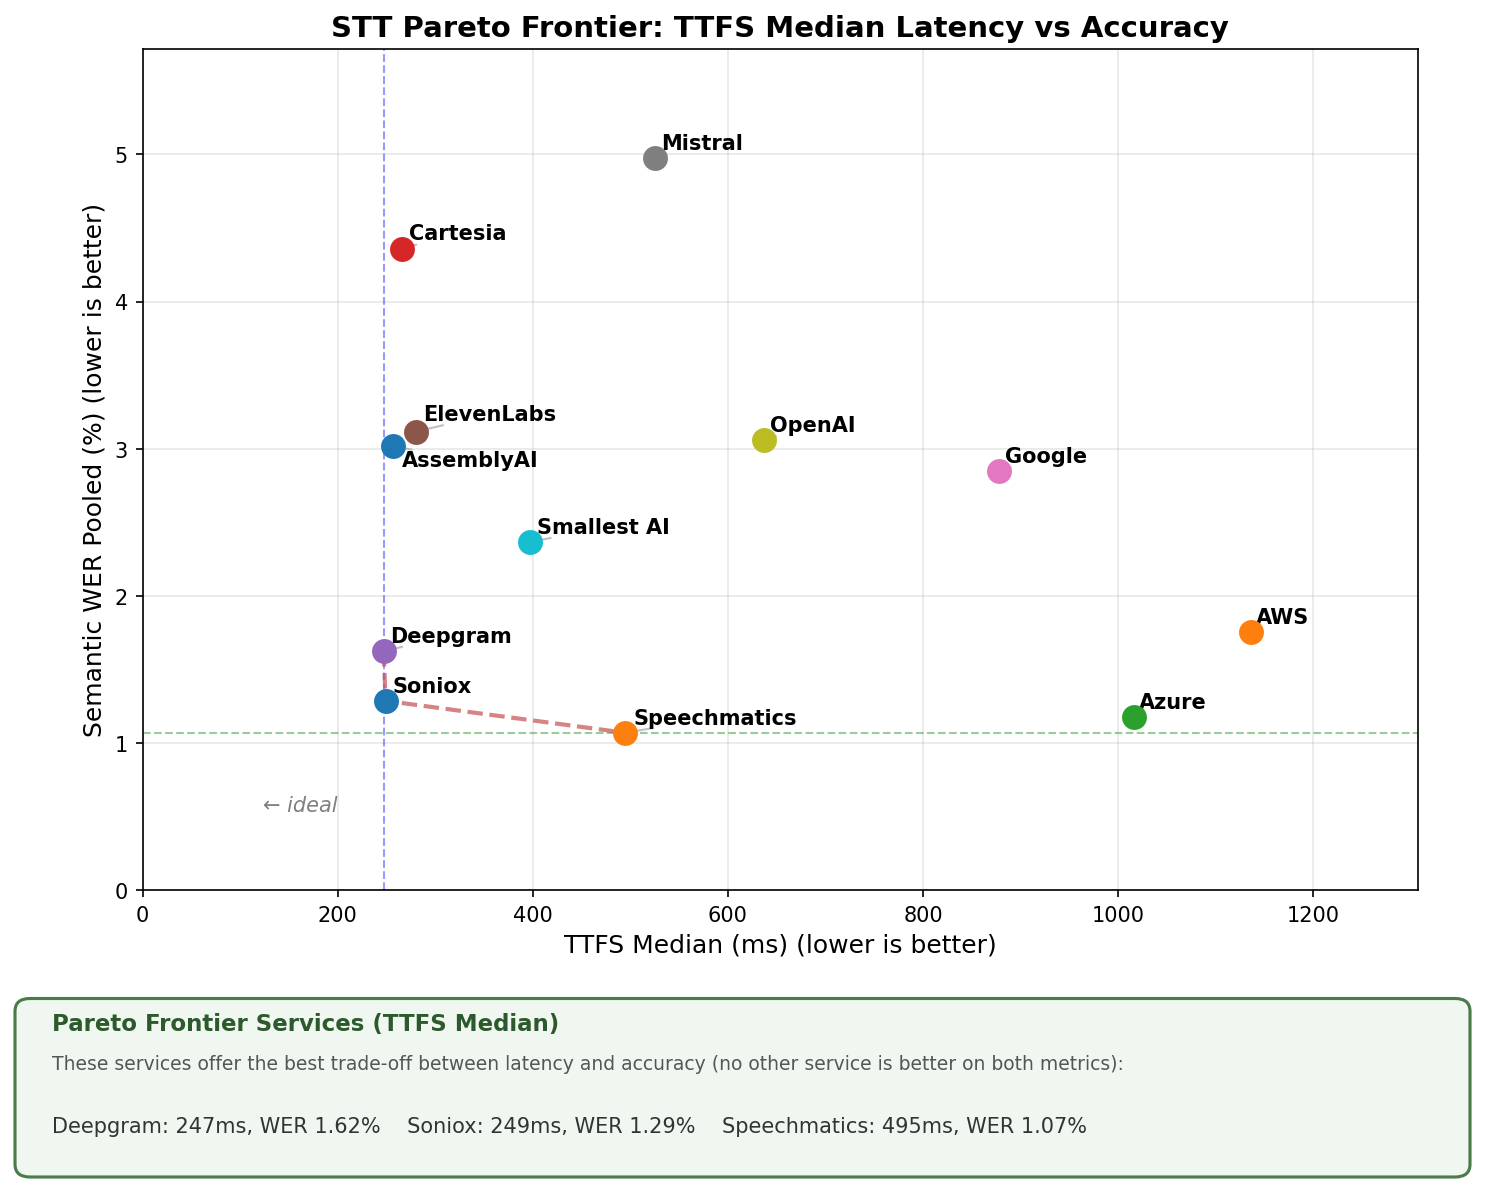
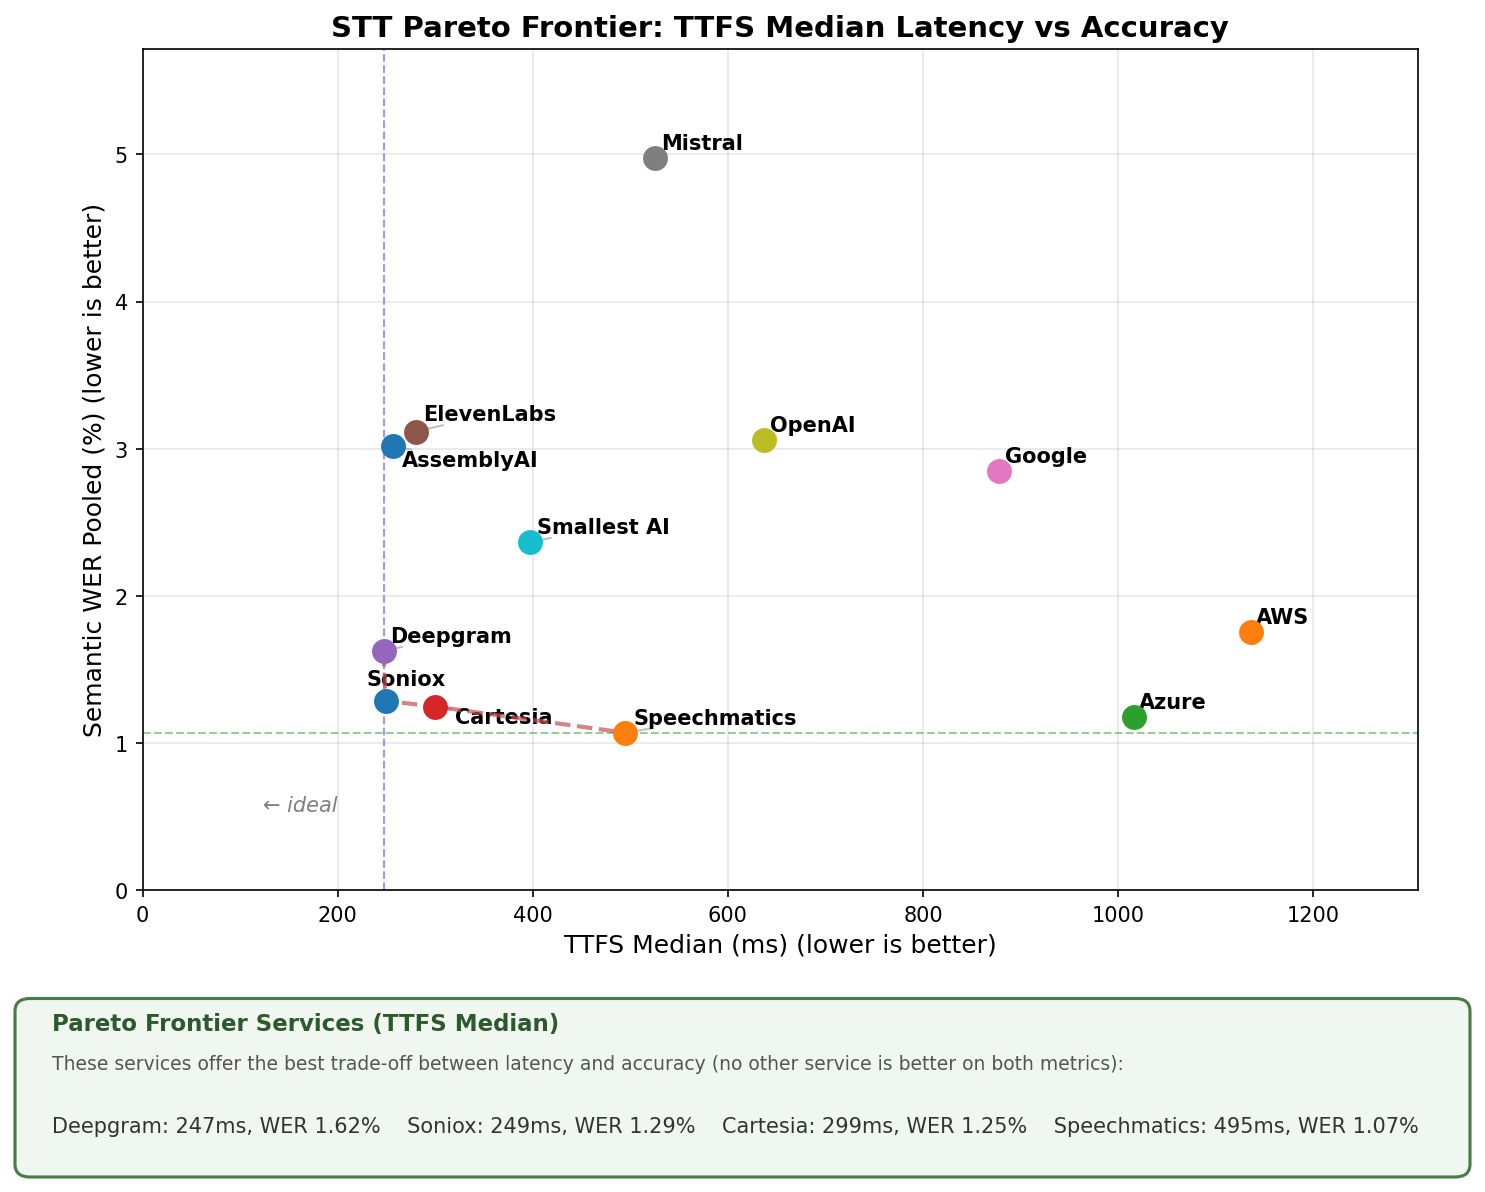
Update settings, add Cartesia ink-2 data

Changed region(s): [[0.4956, 0.9312, 0.9603, 0.9622], [0.2478, 0.5587, 0.3717, 0.6208], [0.2478, 0.1862, 0.3407, 0.2173]]

diff --git a/src/stt_benchmark/services.py b/src/stt_benchmark/services.py
@@ -79,12 +79,11 @@ class ServiceDefinition:
 
 
 def create_assemblyai() -> FrameProcessor:
-    from pipecat.services.assemblyai.models import AssemblyAIConnectionParams
     from pipecat.services.assemblyai.stt import AssemblyAISTTService
 
     return AssemblyAISTTService(
         api_key=_get_env("ASSEMBLYAI_API_KEY"),
-        connection_params=AssemblyAIConnectionParams(
+        settings=AssemblyAISTTService.Settings(
             end_of_turn_confidence_threshold=1.0,
             max_turn_silence=2000,
         ),
@@ -116,17 +115,31 @@ def create_cartesia() -> FrameProcessor:
 
     return CartesiaSTTService(
         api_key=_get_env("CARTESIA_API_KEY"),
-        model="ink-whisper",
+        settings=CartesiaSTTService.Settings(
+            model="ink-whisper",
+            language=Language.EN,
+        ),
+    )
+
+
+def create_cartesia_ink2() -> FrameProcessor:
+    from pipecat.services.cartesia.stt import CartesiaSTTService
+
+    return CartesiaSTTService(
+        api_key=_get_env("CARTESIA_API_KEY"),
+        settings=CartesiaSTTService.Settings(
+            model="ink-2",
+            language=Language.EN,
+        ),
     )
 
 
 def create_deepgram() -> FrameProcessor:
-    from deepgram import LiveOptions
     from pipecat.services.deepgram.stt import DeepgramSTTService
 
     return DeepgramSTTService(
         api_key=_get_env("DEEPGRAM_API_KEY"),
-        live_options=LiveOptions(
+        settings=DeepgramSTTService.Settings(
             model="nova-3-general",
             smart_format=False,
             profanity_filter=False,
@@ -140,8 +153,8 @@ def create_elevenlabs() -> FrameProcessor:
 
     return ElevenLabsRealtimeSTTService(
         api_key=_get_env("ELEVENLABS_API_KEY"),
-        model="scribe_v2_realtime",
-        params=ElevenLabsRealtimeSTTService.InputParams(
+        settings=ElevenLabsRealtimeSTTService.Settings(
+            model="scribe_v2_realtime",
             language=Language.EN,
         ),
     )
@@ -153,8 +166,8 @@ def create_elevenlabs_http(aiohttp_session: "aiohttp.ClientSession") -> FramePro
     return ElevenLabsSTTService(
         aiohttp_session=aiohttp_session,
         api_key=_get_env("ELEVENLABS_API_KEY"),
-        model="scribe_v2",
-        params=ElevenLabsSTTService.InputParams(
+        settings=ElevenLabsSTTService.Settings(
+            model="scribe_v2",
             language=Language.EN,
         ),
     )
@@ -165,7 +178,7 @@ def create_fal() -> FrameProcessor:
 
     return FalSTTService(
         api_key=_get_env("FAL_KEY"),
-        params=FalSTTService.InputParams(
+        settings=FalSTTService.Settings(
             language=Language.EN,
         ),
     )
@@ -173,7 +186,6 @@ def create_fal() -> FrameProcessor:
 
 def create_gladia() -> FrameProcessor:
     from pipecat.services.gladia.config import (
-        GladiaInputParams,
         LanguageConfig,
         PreProcessingConfig,
     )
@@ -182,8 +194,8 @@ def create_gladia() -> FrameProcessor:
     return GladiaSTTService(
         api_key=_get_env("GLADIA_API_KEY"),
         region=os.getenv("GLADIA_REGION", "us-west"),
-        model="solaria-1",
-        params=GladiaInputParams(
+        settings=GladiaSTTService.Settings(
+            model="solaria-1",
             language_config=LanguageConfig(
                 languages=[Language.EN],
             ),
@@ -201,7 +213,7 @@ def create_google() -> FrameProcessor:
     return GoogleSTTService(
         credentials_path=_get_env("GOOGLE_APPLICATION_CREDENTIALS"),
         location=os.getenv("GOOGLE_LOCATION", "us-central1"),
-        params=GoogleSTTService.InputParams(
+        settings=GoogleSTTService.Settings(
             languages=Language.EN_US,
             model="latest_long",
         ),
@@ -213,10 +225,7 @@ def create_gradium() -> FrameProcessor:
 
     return GradiumSTTService(
         api_key=_get_env("GRADIUM_API_KEY"),
-        api_endpoint_base_url=os.getenv(
-            "GRADIUM_BASE_URL", "wss://us.api.gradium.ai/api/speech/asr"
-        ),
-        params=GradiumSTTService.InputParams(
+        settings=GradiumSTTService.Settings(
             language=Language.EN,
         ),
     )
@@ -227,8 +236,10 @@ def create_groq() -> FrameProcessor:
 
     return GroqSTTService(
         api_key=_get_env("GROQ_API_KEY"),
-        model="whisper-large-v3-turbo",
-        language=Language.EN,
+        settings=GroqSTTService.Settings(
+            model="whisper-large-v3-turbo",
+            language=Language.EN,
+        ),
     )
 
 
@@ -237,8 +248,10 @@ def create_mistral() -> FrameProcessor:
 
     return MistralSTTService(
         api_key=_get_env("MISTRAL_API_KEY"),
-        model="voxtral-mini-transcribe-realtime-2602",
-        language=Language.EN,
+        settings=MistralSTTService.Settings(
+            model="voxtral-mini-transcribe-realtime-2602",
+            language=Language.EN,
+        ),
     )
 
 
@@ -247,7 +260,7 @@ def create_nvidia() -> FrameProcessor:
 
     return NvidiaSTTService(
         api_key=_get_env("NVIDIA_API_KEY"),
-        params=NvidiaSTTService.InputParams(
+        settings=NvidiaSTTService.Settings(
             language=Language.EN_US,
         ),
     )
@@ -275,8 +288,10 @@ def create_openai() -> FrameProcessor:
 
     return OpenAISTTService(
         api_key=_get_env("OPENAI_API_KEY"),
-        model="gpt-4o-mini-transcribe",
-        language=Language.EN,
+        settings=OpenAISTTService.Settings(
+            model="gpt-4o-mini-transcribe",
+            language=Language.EN,
+        ),
     )
 
 
@@ -285,8 +300,10 @@ def create_openai_realtime() -> FrameProcessor:
 
     return OpenAIRealtimeSTTService(
         api_key=_get_env("OPENAI_API_KEY"),
-        model="gpt-4o-transcribe",
-        language=Language.EN,
+        settings=OpenAIRealtimeSTTService.Settings(
+            model="gpt-4o-transcribe",
+            language=Language.EN,
+        ),
     )
 
 
@@ -295,7 +312,9 @@ def create_sarvam() -> FrameProcessor:
 
     return SarvamSTTService(
         api_key=_get_env("SARVAM_API_KEY"),
-        model="saarika:v2.5",
+        settings=SarvamSTTService.Settings(
+            model="saarika:v2.5",
+        ),
     )
 
 
@@ -312,11 +331,11 @@ def create_smallest() -> FrameProcessor:
 
 
 def create_soniox() -> FrameProcessor:
-    from pipecat.services.soniox.stt import SonioxInputParams, SonioxSTTService
+    from pipecat.services.soniox.stt import SonioxSTTService
 
     return SonioxSTTService(
         api_key=_get_env("SONIOX_API_KEY"),
-        params=SonioxInputParams(
+        settings=SonioxSTTService.Settings(
             model="stt-rt-v4",
             language_hints=[Language.EN],
             language_hints_strict=True,
@@ -331,7 +350,7 @@ def create_speechmatics() -> FrameProcessor:
     return SpeechmaticsSTTService(
         api_key=_get_env("SPEECHMATICS_API_KEY"),
         base_url=os.getenv("SPEECHMATICS_RT_URL", "wss://us.rt.speechmatics.com/v2"),
-        params=SpeechmaticsSTTService.InputParams(
+        settings=SpeechmaticsSTTService.Settings(
             language=Language.EN,
             turn_detection_mode=TurnDetectionMode.EXTERNAL,
         ),
@@ -342,8 +361,10 @@ def create_whisper() -> FrameProcessor:
     from pipecat.services.whisper.stt import Model, WhisperSTTService
 
     return WhisperSTTService(
-        model=Model.DISTIL_MEDIUM_EN,
-        language=Language.EN,
+        settings=WhisperSTTService.Settings(
+            model=Model.DISTIL_MEDIUM_EN,
+            language=Language.EN,
+        ),
     )
 
 
@@ -352,7 +373,9 @@ def create_xai() -> FrameProcessor:
 
     return XAISTTService(
         api_key=_get_env("XAI_API_KEY"),
-        language=Language.EN,
+        settings=XAISTTService.Settings(
+            language=Language.EN,
+        ),
     )
 
 
@@ -378,6 +401,10 @@ STT_SERVICES: dict[str, ServiceDefinition] = {
     ),
     "cartesia": ServiceDefinition(
         factory=create_cartesia,
+        required_env_vars=["CARTESIA_API_KEY"],
+    ),
+    "cartesia_ink2": ServiceDefinition(
+        factory=create_cartesia_ink2,
         required_env_vars=["CARTESIA_API_KEY"],
     ),
     "deepgram": ServiceDefinition(

diff --git a/src/stt_benchmark/models.py b/src/stt_benchmark/models.py
@@ -18,6 +18,7 @@ class ServiceName(str, Enum):
     AWS = "aws"
     AZURE = "azure"
     CARTESIA = "cartesia"
+    CARTESIA_INK2 = "cartesia_ink2"
     DEEPGRAM = "deepgram"
     # DEEPGRAM_FLUX = "deepgram_flux"
     ELEVENLABS = "elevenlabs"

diff --git a/README.md b/README.md
@@ -11,7 +11,7 @@ Benchmark results on 1000 samples from the `pipecat-ai/smart-turn-data-v3.1-trai
 | AssemblyAI | 99.8% | 66.8% | 3.49% | 3.02% | 256ms | 362ms | 417ms |
 | AWS | 100.0% | 77.4% | 1.68% | 1.75% | 1136ms | 1527ms | 1897ms |
 | Azure | 100.0% | 82.9% | 1.21% | 1.18% | 1016ms | 1345ms | 1791ms |
-| Cartesia | 99.9% | 60.5% | 3.92% | 4.36% | 266ms | 364ms | 898ms |
+| Cartesia | 100.0% | 84.2% | 1.47% | 1.25% | 299ms | 328ms | 1584ms |
 | Deepgram | 99.8% | 76.5% | 1.71% | 1.62% | 247ms | 298ms | 326ms |
 | Elevenlabs | 99.7% | 81.3% | 3.16% | 3.12% | 281ms | 348ms | 407ms |
 | Google | 100.0% | 69.0% | 2.84% | 2.85% | 878ms | 1155ms | 1570ms |